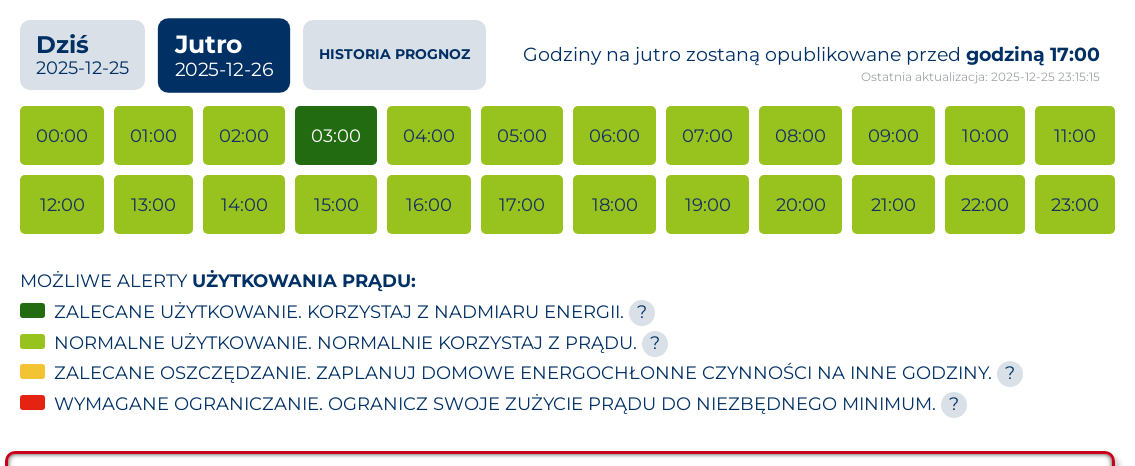
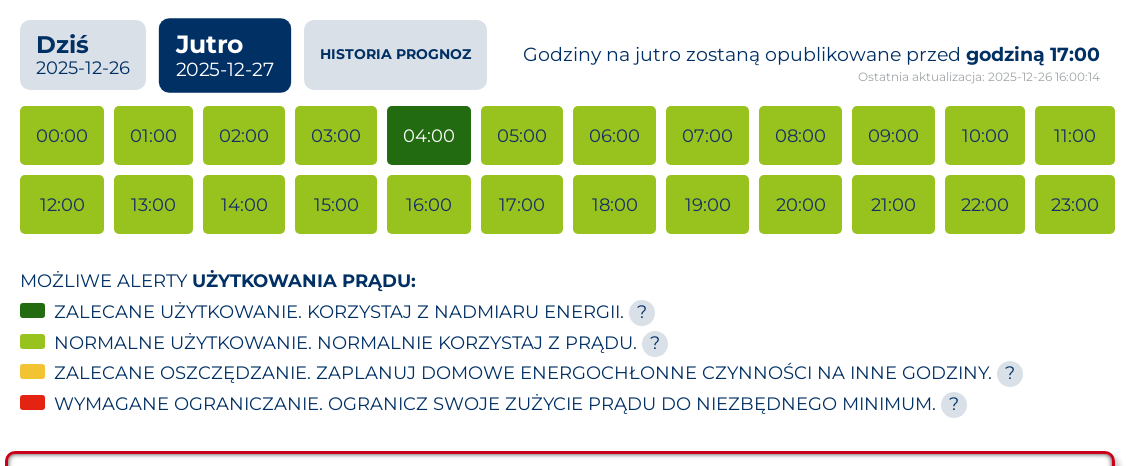
site: update 2025-12-26 16:00 UTC

diff --git a/site/html_01_tabele_wykresy_g14_today_tomorrow.html b/site/html_01_tabele_wykresy_g14_today_tomorrow.html
@@ -140,7 +140,7 @@
 <section class="hero">
   <div class="kicker">Dane</div>
   <h1>Taryfa — dzisiaj i jutro</h1>
-  <p class="muted">Strona wygenerowana: 2025-12-26 13:00:29</p>
+  <p class="muted">Strona wygenerowana: 2025-12-26 17:00:31</p>
   <p class="muted">Dane (dzisiaj) — ostatnia próbka: 2025-12-26 23:45:00</p>
   <p class="muted">Dane (jutro) — ostatnia próbka: brak danych</p>
 </section>
@@ -238,7 +238,7 @@
             <td class="left-2">02:15</td>
             <td class="cat-c">0,379</td>
             <td class="cat-c">c</td>
-            <td class="cat-c">0,489</td>
+            <td class="cat-c">0,439</td>
             <td class="cat-c">c</td>
           </tr>
           <tr>
@@ -246,7 +246,7 @@
             <td class="left-2">02:30</td>
             <td class="cat-a">0,361</td>
             <td class="cat-a">a</td>
-            <td class="cat-a">0,471</td>
+            <td class="cat-a">0,421</td>
             <td class="cat-a">a</td>
           </tr>
           <tr>
@@ -254,7 +254,7 @@
             <td class="left-2">02:45</td>
             <td class="cat-a">0,359</td>
             <td class="cat-a">a</td>
-            <td class="cat-a">0,469</td>
+            <td class="cat-a">0,419</td>
             <td class="cat-a">a</td>
           </tr>
           <tr>
@@ -262,7 +262,7 @@
             <td class="left-2">03:00</td>
             <td class="cat-a">0,355</td>
             <td class="cat-a">a</td>
-            <td class="cat-a">0,465</td>
+            <td class="cat-a">0,415</td>
             <td class="cat-a">a</td>
           </tr>
           <tr>
@@ -270,7 +270,7 @@
             <td class="left-2">03:15</td>
             <td class="cat-a">0,351</td>
             <td class="cat-a">a</td>
-            <td class="cat-a">0,461</td>
+            <td class="cat-a">0,411</td>
             <td class="cat-a">a</td>
           </tr>
           <tr>
@@ -278,7 +278,7 @@
             <td class="left-2">03:30</td>
             <td class="cat-a">0,348</td>
             <td class="cat-a">a</td>
-            <td class="cat-a">0,458</td>
+            <td class="cat-a">0,408</td>
             <td class="cat-a">a</td>
           </tr>
           <tr>
@@ -286,7 +286,7 @@
             <td class="left-2">03:45</td>
             <td class="cat-a">0,347</td>
             <td class="cat-a">a</td>
-            <td class="cat-a">0,457</td>
+            <td class="cat-a">0,407</td>
             <td class="cat-a">a</td>
           </tr>
           <tr>
@@ -294,7 +294,7 @@
             <td class="left-2">04:00</td>
             <td class="cat-a">0,347</td>
             <td class="cat-a">a</td>
-            <td class="cat-a">0,457</td>
+            <td class="cat-a">0,407</td>
             <td class="cat-a">a</td>
           </tr>
           <tr>
@@ -302,7 +302,7 @@
             <td class="left-2">04:15</td>
             <td class="cat-a">0,350</td>
             <td class="cat-a">a</td>
-            <td class="cat-a">0,460</td>
+            <td class="cat-a">0,410</td>
             <td class="cat-a">a</td>
           </tr>
           <tr>
@@ -310,7 +310,7 @@
             <td class="left-2">04:30</td>
             <td class="cat-a">0,353</td>
             <td class="cat-a">a</td>
-            <td class="cat-a">0,463</td>
+            <td class="cat-a">0,413</td>
             <td class="cat-a">a</td>
           </tr>
           <tr>
@@ -318,7 +318,7 @@
             <td class="left-2">04:45</td>
             <td class="cat-a">0,355</td>
             <td class="cat-a">a</td>
-            <td class="cat-a">0,465</td>
+            <td class="cat-a">0,415</td>
             <td class="cat-a">a</td>
           </tr>
           <tr>
@@ -326,7 +326,7 @@
             <td class="left-2">05:00</td>
             <td class="cat-a">0,356</td>
             <td class="cat-a">a</td>
-            <td class="cat-a">0,466</td>
+            <td class="cat-a">0,416</td>
             <td class="cat-a">a</td>
           </tr>
           <tr>
@@ -334,7 +334,7 @@
             <td class="left-2">05:15</td>
             <td class="cat-b">0,363</td>
             <td class="cat-b">b</td>
-            <td class="cat-b">0,473</td>
+            <td class="cat-b">0,423</td>
             <td class="cat-b">b</td>
           </tr>
           <tr>
@@ -342,7 +342,7 @@
             <td class="left-2">05:30</td>
             <td class="cat-b">0,364</td>
             <td class="cat-b">b</td>
-            <td class="cat-b">0,474</td>
+            <td class="cat-b">0,424</td>
             <td class="cat-b">b</td>
           </tr>
           <tr>
@@ -350,7 +350,7 @@
             <td class="left-2">05:45</td>
             <td class="cat-b">0,365</td>
             <td class="cat-b">b</td>
-            <td class="cat-b">0,475</td>
+            <td class="cat-b">0,425</td>
             <td class="cat-b">b</td>
           </tr>
           <tr>
@@ -358,7 +358,7 @@
             <td class="left-2">06:00</td>
             <td class="cat-b">0,368</td>
             <td class="cat-b">b</td>
-            <td class="cat-b">0,478</td>
+            <td class="cat-b">0,428</td>
             <td class="cat-b">b</td>
           </tr>
           <tr>
@@ -366,7 +366,7 @@
             <td class="left-2">06:15</td>
             <td class="cat-a">0,353</td>
             <td class="cat-a">a</td>
-            <td class="cat-a">0,463</td>
+            <td class="cat-a">0,413</td>
             <td class="cat-a">a</td>
           </tr>
           <tr>
@@ -374,7 +374,7 @@
             <td class="left-2">06:30</td>
             <td class="cat-a">0,352</td>
             <td class="cat-a">a</td>
-            <td class="cat-a">0,462</td>
+            <td class="cat-a">0,412</td>
             <td class="cat-a">a</td>
           </tr>
           <tr>
@@ -382,7 +382,7 @@
             <td class="left-2">06:45</td>
             <td class="cat-b">0,362</td>
             <td class="cat-b">b</td>
-            <td class="cat-b">0,472</td>
+            <td class="cat-b">0,422</td>
             <td class="cat-b">b</td>
           </tr>
           <tr>
@@ -390,7 +390,7 @@
             <td class="left-2">07:00</td>
             <td class="cat-b">0,365</td>
             <td class="cat-b">b</td>
-            <td class="cat-b">0,475</td>
+            <td class="cat-b">0,425</td>
             <td class="cat-b">b</td>
           </tr>
           <tr>
@@ -526,7 +526,7 @@
             <td class="left-2">11:15</td>
             <td class="cat-b">0,376</td>
             <td class="cat-b">b</td>
-            <td class="cat-b">0,436</td>
+            <td class="cat-b">0,486</td>
             <td class="cat-b">b</td>
           </tr>
           <tr>
@@ -534,7 +534,7 @@
             <td class="left-2">11:30</td>
             <td class="cat-a">0,361</td>
             <td class="cat-a">a</td>
-            <td class="cat-a">0,421</td>
+            <td class="cat-a">0,471</td>
             <td class="cat-a">a</td>
           </tr>
           <tr>
@@ -542,7 +542,7 @@
             <td class="left-2">11:45</td>
             <td class="cat-a">0,361</td>
             <td class="cat-a">a</td>
-            <td class="cat-a">0,421</td>
+            <td class="cat-a">0,471</td>
             <td class="cat-a">a</td>
           </tr>
           <tr>
@@ -550,7 +550,7 @@
             <td class="left-2">12:00</td>
             <td class="cat-b">0,374</td>
             <td class="cat-b">b</td>
-            <td class="cat-b">0,434</td>
+            <td class="cat-b">0,484</td>
             <td class="cat-b">b</td>
           </tr>
           <tr>

diff --git a/site/html_02_raport_ze_stanu_teraz.html b/site/html_02_raport_ze_stanu_teraz.html
@@ -18,7 +18,7 @@
   </div>
 
   <section class="hero">
-    <div class="kicker">Ostatni odczyt: 26.12.2025 16:45</div>
+    <div class="kicker">Ostatni odczyt: 26.12.2025 17:00</div>
     <h1>Raport ze stanu teraz</h1>
     <p>
       Taryfy Tauron:
@@ -42,7 +42,7 @@
       <tbody>
         <tr>
           <th style="width:40%;">Czas odczytu</th>
-          <td>26.12.2025 16:45</td>
+          <td>26.12.2025 17:00</td>
         </tr>
         <tr>
           <th>Położenie</th>
@@ -102,15 +102,15 @@
         </tr>
         <tr>
           <th>Moc do domu [W]</th>
-          <td>208</td>
+          <td>168</td>
         </tr>
         <tr>
           <th>Moc z / do sieci [W]</th>
-          <td>208</td>
+          <td>168</td>
         </tr>
         <tr>
           <th>Moc z / do baterii [W]</th>
-          <td>208</td>
+          <td>168</td>
         </tr>
       </tbody>
     </table>
@@ -150,7 +150,7 @@
         </tr>
         <tr>
           <th>Napięcie [V]</th>
-          <td>233.53</td>
+          <td>229.03</td>
         </tr>
         <tr>
           <th>Prąd [A]</th>

diff --git a/site/html_03_g13_g14_porownanie.html b/site/html_03_g13_g14_porownanie.html
@@ -18,7 +18,7 @@
   </div>
 
   <section class="hero">
-    <div class="kicker">Ceny sprzedaży i zakupu energii oraz tryb SolaX (ostatni odczyt: 2025-12-26 16:45:00, strona wygenerowana 2025-12-26 16:45:33)</div>
+    <div class="kicker">Ceny sprzedaży i zakupu energii oraz tryb SolaX (ostatni odczyt: 2025-12-26 17:00:00, strona wygenerowana 2025-12-26 17:00:47)</div>
     <h1>Ceny energii i tryb SolaX</h1>
     <p>
       Taryfy Tauron:
